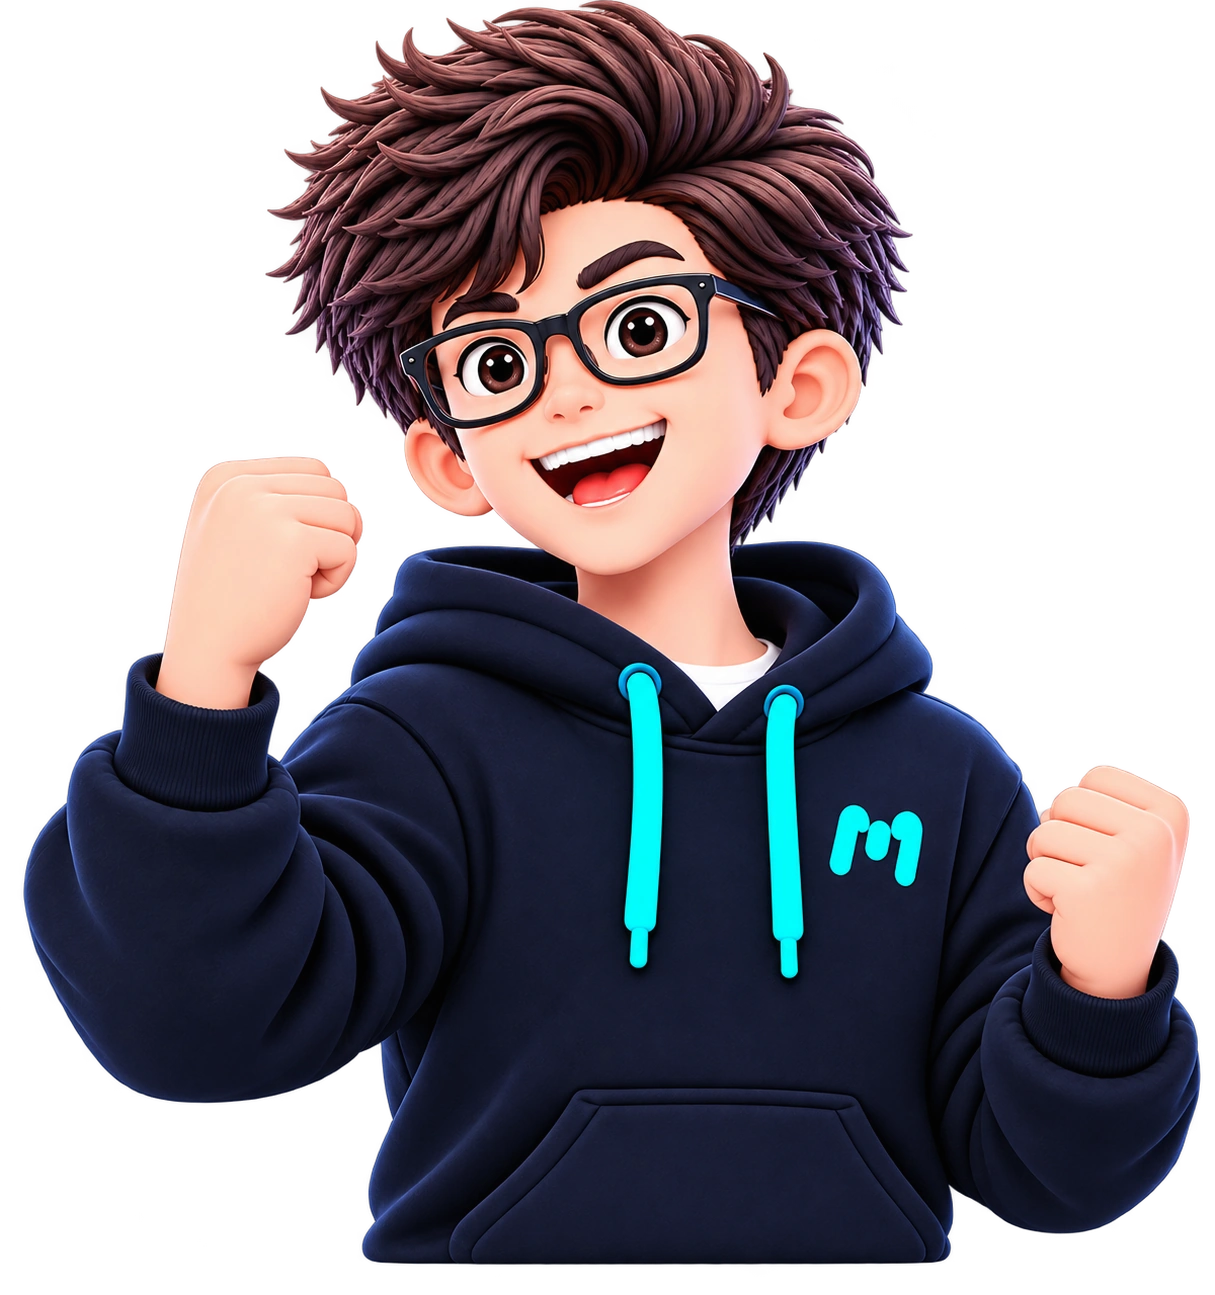
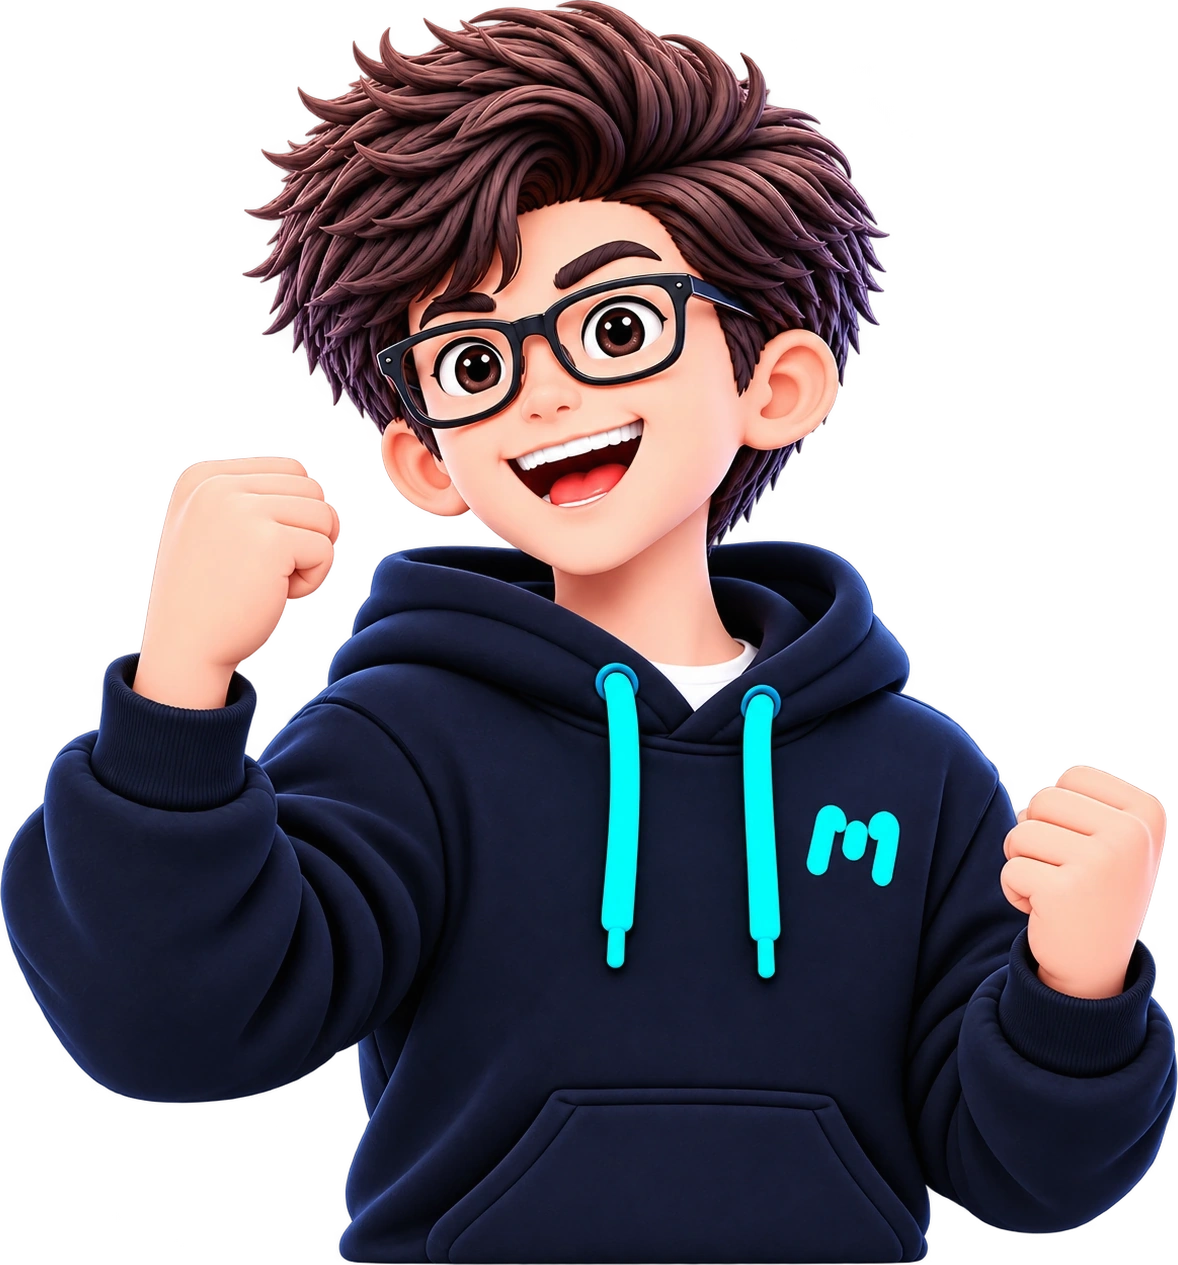
fix(home): trim transparent bottom padding so hero character attaches directly to card border

Changed region(s): [[0.0, 0.0, 1.0, 1.0], [0.6112, 0.7091, 0.6723, 0.7708]]

diff --git a/apps/web/src/app/(public)/HomeClient.tsx b/apps/web/src/app/(public)/HomeClient.tsx
@@ -1380,26 +1380,26 @@ export function HomeClient({
               </div>
             </div>
 
-            {/* Right Hero Image (Desktop: Sitting cleanly at bottom of card with full jacket visible and zero pants) */}
-            <div className="hidden md:block absolute right-6 lg:right-12 xl:right-16 bottom-0 pointer-events-none select-none z-10">
+            {/* Right Hero Image (Desktop: Attached directly to bottom card border) */}
+            <div className="hidden md:block absolute right-6 lg:right-12 xl:right-16 -bottom-1 lg:-bottom-1.5 pointer-events-none select-none z-10">
               <Image
                 src="/herocard1.webp"
                 alt="Ready to Scale Infrastructure - Masdika"
-                width={1215}
-                height={1295}
+                width={1178}
+                height={1265}
                 className="w-[280px] lg:w-[330px] xl:w-[370px] h-auto object-contain object-bottom drop-shadow-[0_10px_20px_rgba(0,0,0,0.08)] dark:drop-shadow-[0_12px_24px_rgba(0,0,0,0.4)]"
                 priority={false}
               />
             </div>
 
-            {/* Mobile Hero (Centered at bottom, sitting on card border with full jacket visible and zero pants) */}
+            {/* Mobile Hero (Centered at bottom, attached directly to bottom card border) */}
             <div className="block md:hidden mt-6 -mb-6 sm:-mb-8 flex justify-center pointer-events-none select-none">
               <Image
                 src="/herocard1.webp"
                 alt="Ready to Scale Infrastructure - Masdika"
-                width={1215}
-                height={1295}
-                className="w-52 sm:w-60 h-auto object-contain object-bottom drop-shadow-[0_10px_20px_rgba(0,0,0,0.08)] dark:drop-shadow-[0_12px_24px_rgba(0,0,0,0.4)]"
+                width={1178}
+                height={1265}
+                className="w-52 sm:w-60 h-auto object-contain object-bottom translate-y-1 sm:translate-y-1.5 drop-shadow-[0_10px_20px_rgba(0,0,0,0.08)] dark:drop-shadow-[0_12px_24px_rgba(0,0,0,0.4)]"
                 priority={false}
               />
             </div>
